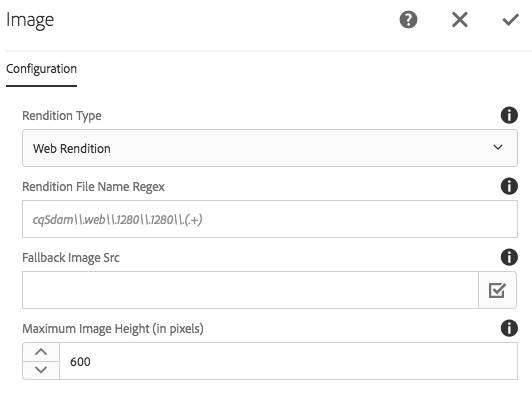
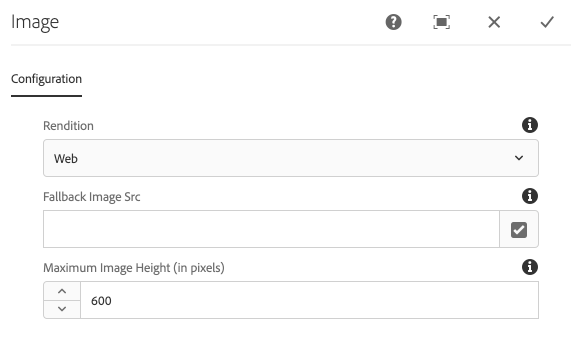
v1.8.0 - Image and Video component docs update

diff --git a/_pages/details/image/index.md b/_pages/details/image/index.md
@@ -16,18 +16,14 @@ Authors have several configurations available to choose which asset rendition is
 
 ![Image dialog](./images/dialog.png)
 
-#### Rendition Type
+#### Rendition
 
-Select the rendition to populate the image `src` attribute.
+An Image rendition that can be picked from a dropdown that lists all Asset Rendition Names that are registered to Asset Rendition Dispatcher OSGi configurations with `type = image`. These values are exposed via [Asset Share Commons' Asset Rendition framework](/asset-share-commons/pages/development/asset-renditions/).
 
-* **Web Rendition** - uses the [computed property](../computed-properties/) Web Rendition as the image src.
-* **Thumbnail Rendition** - uses the [computed property](../computed-properties/) Thumbnail Rendition as the image src.
-* **Asset Path** - uses [computed property](../computed-properties/) Asset Path as the image src.
-* **Use 'Rendition File Name Regex' defined below** - if selected will use a regular expression defined in the next dialog field to determine the rendition to use.
+OOTB the available image renditions are available:
 
-#### Rendition File Name Regex
-
-A regular expression that can be used to match a rendition to be used to display as the image src. Renditions are looked for beneath the `renditions` folder located beneath `<dam:asset>/jcr:content/renditions`.
+* Original (maps to static original rendition)
+* Web (maps to the static cq5dam.web.x.x.x)
 
 #### Fallback Image Src
 
@@ -35,7 +31,33 @@ An image can be selected to be used if no rendition for a given asset is found. 
 
 #### Maximum Image Height (in pixels)
 
-If set, an inline style attribute `max-height` will be set to explicitly limit the heigh the image can grow. If left blank the image will render as is.
+If set, an inline style attribute `max-height` will be set to explicitly limit the height the image can grow. If left blank the image will render as is.
+
+
+### Legacy support
+
+In Asset Share Commons v1.8.0 the dialog was updated to use the Renditions provided by the [Asset Share Commons' Asset Rendition framework](/asset-share-commons/pages/development/asset-renditions/).
+
+Previous instances of Image components will continue to work and allow configurations in both modes using a Legacy Mode toggle switch.
+
+Any NEW instance of the Image component ONLY supports the Asset Renditions.
+
+#### Migrating off legacy
+
+It is highly recommended to move to the new Asset Rendition based approached at your earliest convenience. The easiest way to migrate is to:
+
+1. Define and configure any required AssetRenditionDispatcher configurations, and promote through QA -> Stage as needed.
+2. Update AEM Dispatcher configuration to support Asset Renditions.
+3. Deploy Asset Share Commons v1.8.0+ and any dependency configurations to production environment.
+3. On AEM Author, navigate to the page with the Image component.
+4. Enter Edit mode
+5. Add a NEW Image component above the Image component using the legacy configuration.
+6. Configure the NEW Image component as needed, and verify it is surfacing the expected rendition.
+7. Delete the previous Image component using the legacy configuration.
+8. Double-check everything works as expected on AEM Author.
+9. Publish the page.
+10. Double-check the page renders properly on AEM Publish
+11. Rinse, repeat for all instances of the Image component.
 
 ## Technical details
 
@@ -44,6 +66,4 @@ If set, an inline style attribute `max-height` will be set to explicitly limit t
 
 **Dialog Data Sources**
 
-* **Rendition Type**: `com.adobe.aem.commons.assetshare.content.impl.datasources.ComputedPropertiesDataSource` with a filter for only computed properties for `renditions`.
-
-This component allows authors to use [Computed Properties](../computed-properties.html).
+* **Renditions**: [`com.adobe.aem.commons.assetshare.content.impl.datasources.AssetRenditionsDataSource`](https://github.com/Adobe-Marketing-Cloud/asset-share-commons/blob/develop/core/src/main/java/com/adobe/aem/commons/assetshare/content/impl/datasources/AssetRenditionsDataSource.java) with a filter of `allowedAssetRenditionTypes="[image]"`

diff --git a/_pages/details/video/index.md b/_pages/details/video/index.md
@@ -17,13 +17,21 @@ Authors have several configurations available to choose which asset rendition is
 
 ### Dialog / Configuration
 
-![Video dialog](./images/dialog.png)
+![Video Dialog](./images/dialog.png)
 
 #### Poster Image
 
 An Image asset to display prior to the video loading / being played.
 
-* **Use 'Rendition File Name Regex' defined below** - if selected will use a regular expression defined in the next dialog field to determine the rendition to use.
+#### Rendition
+
+A Video rendition that can be picked from a dropdown that lists all Asset Rendition Names that are registered to Asset Rendition Dispatcher OSGi configurations with `type = video`. These values are exposed via [Asset Share Commons' Asset Rendition framework](/asset-share-commons/pages/development/asset-renditions/).
+
+OOTB the available image renditions are available:
+
+* Original (maps to static original rendition)
+* Mp4 (maps to the static *.mp4)
+* M4v (maps to the static *.m4v)
 
 #### Video Height (in pixels)
 
@@ -33,25 +41,36 @@ The maximum height of the video player in pixels. Leave blank for no maximum hei
 
 The message to display if a non-video asset is attempted to be displayed by this component.
 
-#### Rendition Type
+### Legacy support
 
-Defines what should be used as the video player's source.
+In Asset Share Commons v1.8.0 the dialog was updated to use the Renditions provided by the [Asset Share Commons' Asset Rendition framework](/asset-share-commons/pages/development/asset-renditions/).
 
-* **Use 'Rendition File Name Regex' defined below** - Use the rendition selected by the `Rendition File Name Regex` dialog field below.
-* **Asset Path (Computed property)** - Use the asset's full path. 
-* **Thumbnail Rendition** - Use the asset's thumbnail rendition's path.
+Previous instances of Video components will continue to work and allow configurations in both modes using a Legacy Mode toggle switch.
 
+Any NEW instance of the Video component ONLY supports the Asset Renditions.
 
-#### Rendition File Name Regex
+#### Migrating off legacy
 
-A regular expression that can be used to match a rendition to be used to display as the image src. Renditions are looked for beneath the `renditions` folder located beneath `<dam:asset>/jcr:content/renditions`.
+It is highly recommended to move to the new Asset Rendition based approached at your earliest convenience. The easiest way to migrate is to:
 
-#### Fallback Image Src
-
-An image can be selected to be used if no rendition for a given asset is found. The fallback image src will be used directly to populate the `src` attribute. Even if the fallback image is an asset in the DAM that has a rendition, only the path will be used.
+1. Define and configure any required AssetRenditionDispatcher configurations, and promote through QA -> Stage as needed.
+2. Update AEM Dispatcher configuration to support Asset Renditions.
+3. Deploy Asset Share Commons v1.8.0+ and any dependency configurations to production environment.
+3. On AEM Author, navigate to the page with the Video component.
+4. Enter Edit mode
+5. Add a NEW Video component above the Video component using the legacy configuration.
+6. Configure the NEW Video component as needed, and verify it is surfacing the expected rendition.
+7. Delete the previous Video component using the legacy configuration.
+8. Double-check everything works as expected on AEM Author.
+9. Publish the page.
+10. Double-check the page renders properly on AEM Publish
+11. Rinse, repeat for all instances of the Video component.
 
 ## Technical details
 
 * **Component**: `/apps/asset-share-commons/components/details/video`
 * **Sling Model**: `com.adobe.aem.commons.assetshare.components.details.impl.VideoImpl`
 
+**Dialog Data Sources**
+
+* **Renditions**: [`com.adobe.aem.commons.assetshare.content.impl.datasources.AssetRenditionsDataSource`](https://github.com/Adobe-Marketing-Cloud/asset-share-commons/blob/develop/core/src/main/java/com/adobe/aem/commons/assetshare/content/impl/datasources/AssetRenditionsDataSource.java) with a filter of `allowedAssetRenditionTypes="[video]"`
